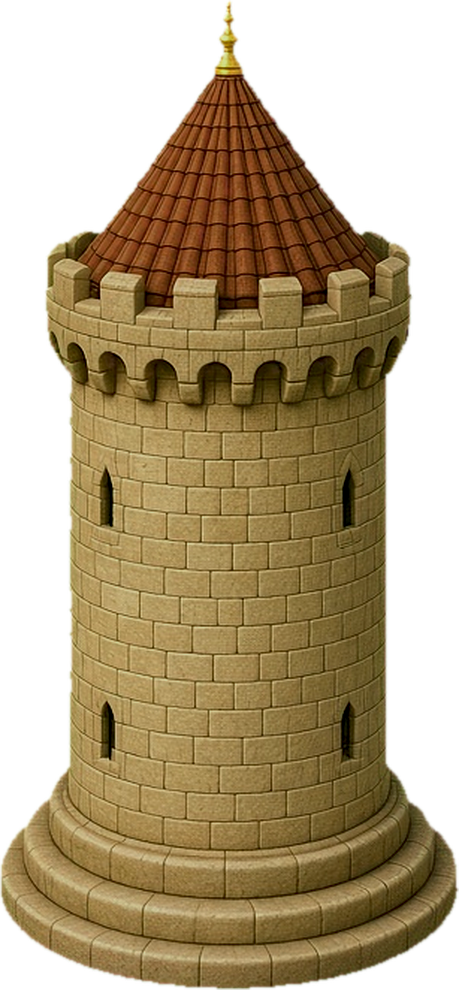
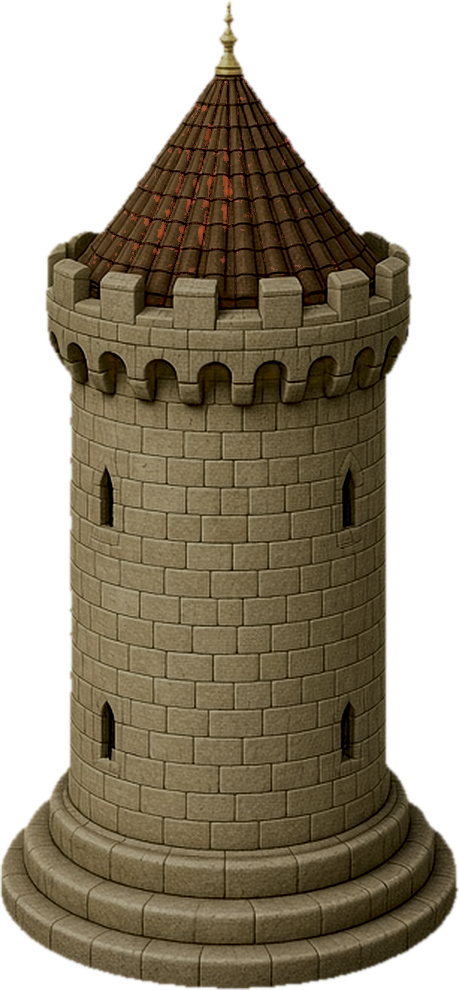
docs(pc): repaint three kit v8 pieces in grey-beige
Tower, horizontal segment, and horizontal gatehouse match the ring v4 stone. The beige versions stay in old_v8b_beige. Concept only.

diff --git a/docs/pc/CHANGE_LOG_PC.md b/docs/pc/CHANGE_LOG_PC.md
@@ -31,3 +31,4 @@ Crosshaven kit wall segments regraded to v7 stone (diag, horizontal, short + mir
 Crosshaven kit4: one-piece unified wall section v1 (diagonal wall + 2 towers + water-gate arch, painted ground, no alpha) - 🖼 CONCEPTO
 2026-10-17 – walls/kit4/crosshaven_ring_newwalls_v4_APPROVED_CONCEPTO.jpg: Crosshaven wall ring concept target v4 (Luca approved 9:51 AM ET, relayed by Scenario Art); supersedes wall_section_unified_v1 as ring target. CONCEPT, not a game asset.
 2026-10-17 – walls/kit5/: Crosshaven wall kit v8 placeholders (tower, segment diag/horizontal/short + mirrors, gatehouse horizontal/diagonal + mirror, watergate diagonal + mirror, JSON foot anchors, mini ring check). CONCEPT; v8b repaint of diagonals to follow.
+2026-10-17 – walls/kit5/: tower, segment_horizontal, gatehouse_horizontal v8 repainted in ring v4 grey-beige (per Mauro); beige kept in old_v8b_beige/. Diagonals/short/watergate still beige placeholders. CONCEPT.
